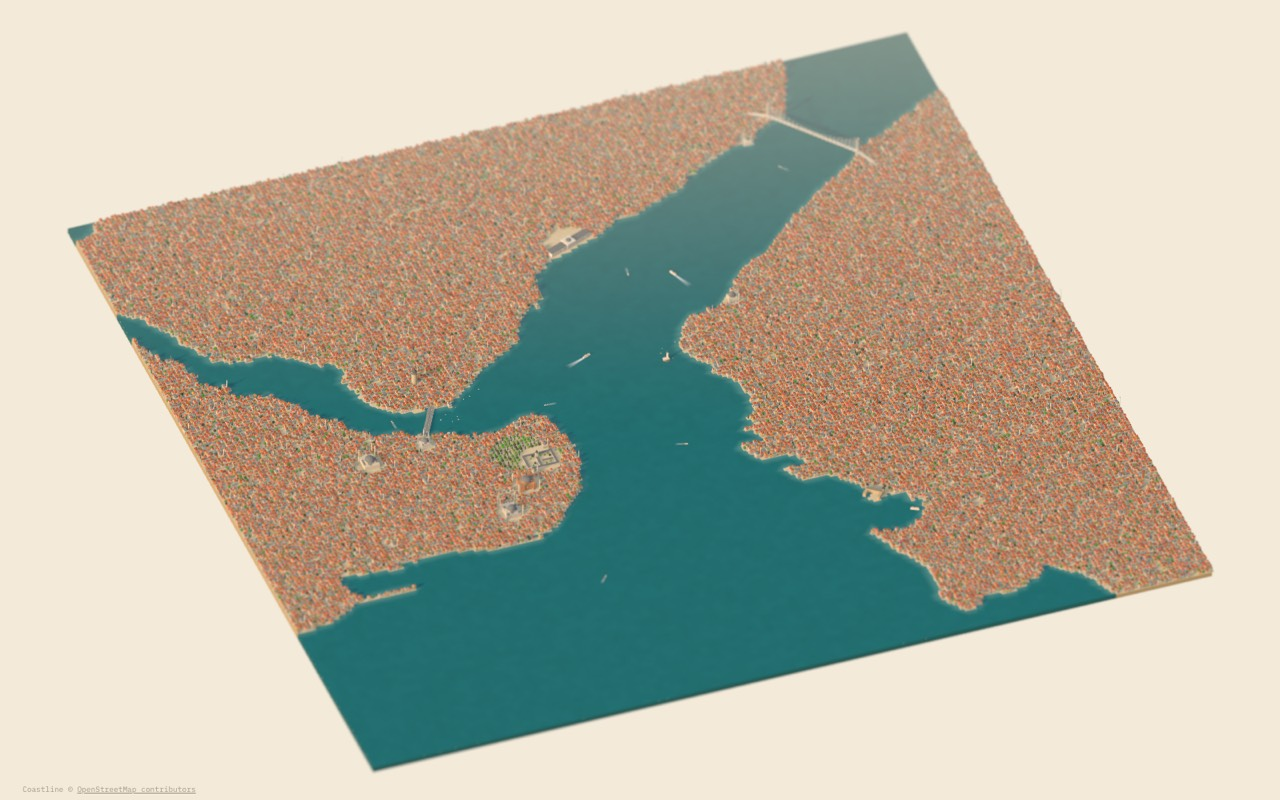
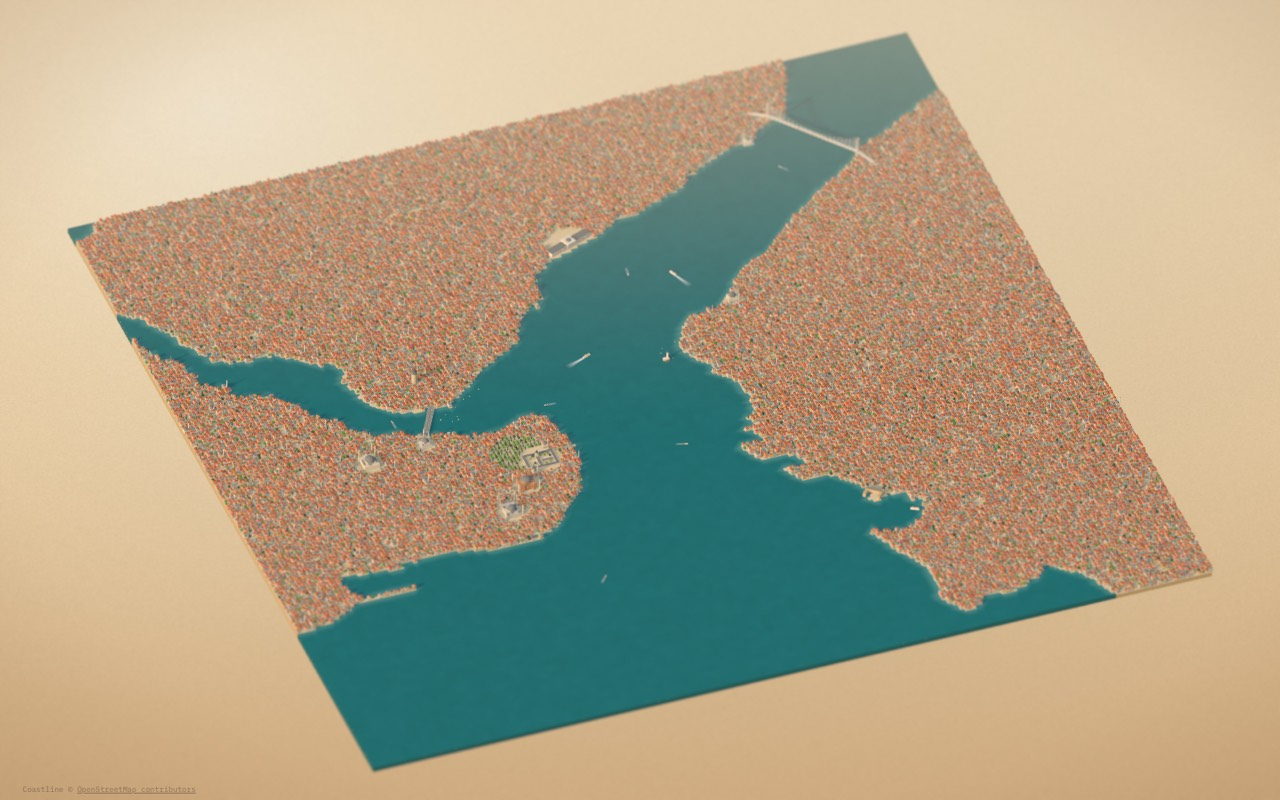
No. 004: an atmospheric backdrop, and a city that stands from the start
Warm haze lit from the sun's side with a vignette and grain, and a soft shadow under the slab. The ordinary city is built from the first moment; placing a landmark raises it into its gap.

diff --git a/works/004/scene.js b/works/004/scene.js
@@ -11,7 +11,6 @@ import { HorizontalTiltShiftShader } from 'three/addons/shaders/HorizontalTiltSh
 import { VerticalTiltShiftShader } from 'three/addons/shaders/VerticalTiltShiftShader.js';
 import { toWorld, WIDTH, HEIGHT } from './geo.js';
 import { buildLandmark, buildOutline, PALETTE } from './models.js';
-import { riseOrder, riseWindow } from './city.js';
 
 const HEADING = 20 * Math.PI / 180; // the camera looks north-northeast
 const ELEVATION = 40 * Math.PI / 180;
@@ -33,7 +32,7 @@ export async function startScene(canvas, { land, landmarks, city, reducedMotion,
   renderer.shadowMap.type = THREE.PCFSoftShadowMap;
 
   const scene = new THREE.Scene();
-  scene.background = new THREE.Color(COLORS.paper);
+  scene.background = backdrop();
   const camera = new THREE.OrthographicCamera(-1, 1, 1, -1, 1, DISTANCE * 3);
 
   // ---------- light and air ----------
@@ -41,7 +40,7 @@ export async function startScene(canvas, { land, landmarks, city, reducedMotion,
   // a haze the colour of the paper softens what is farther away, as over the Bosphorus
   scene.add(new THREE.HemisphereLight(0xe4ecf2, 0xc9a77c, 1.55));
   const sun = new THREE.DirectionalLight(0xffd8a6, 3.4);
-  scene.fog = new THREE.Fog(0xf1e3c9, DISTANCE - 600, DISTANCE + 15000);
+  scene.fog = new THREE.Fog(0xefd9b6, DISTANCE - 600, DISTANCE + 15000);
   sun.castShadow = true;
   sun.shadow.mapSize.set(small ? 1024 : 2048, small ? 1024 : 2048);
   sun.shadow.bias = -0.0004;
@@ -71,6 +70,11 @@ export async function startScene(canvas, { land, landmarks, city, reducedMotion,
   ground.frustumCulled = false;
   scene.add(ground);
   scene.add(slabEdge(land));
+  // a soft shadow on the table under the slab, cast away from the sun, so the model sits on something
+  const under = new THREE.Mesh(new THREE.PlaneGeometry(WIDTH * 1.5, HEIGHT * 1.5).rotateX(-Math.PI / 2),
+    new THREE.MeshBasicMaterial({ map: softShadow(), transparent: true, depthWrite: false, fog: false }));
+  under.position.set(-SUN.x * 420, -SLAB - 2, -SUN.z * 420);
+  scene.add(under);
 
   // ---------- landmarks, waiting as outlines ----------
   const pieces = new Map();
@@ -85,78 +89,63 @@ export async function startScene(canvas, { land, landmarks, city, reducedMotion,
   }
   const showOutline = (id, on) => { pieces.get(id).outline.visible = on; };
 
-  // ---------- the ordinary city, waiting as pale plots until its landmark is placed ----------
-  // in rising order, so each neighborhood is one run of each buffer
-  const n = landmarks.length;
-  const H = riseOrder(city.houses, n), T = riseOrder(city.trees, n), M = riseOrder(city.mosques, n);
-  const houses = H.items, trees = T.items, mosques = M.items;
-  const delaysOf = (list) => Float32Array.from(list, (x) => x.delay);
-  const houseDelays = delaysOf(houses), treeDelays = delaysOf(trees), mosqueDelays = delaysOf(mosques);
+  // ---------- the ordinary city, standing from the start: the landmarks are what is missing ----------
+  const { houses, trees, mosques } = city;
   const std = (o = {}) => new THREE.MeshStandardMaterial({ roughness: 0.85, ...o });
   const box = () => new THREE.BoxGeometry(1, 1, 1).translate(0, 0.5, 0);
-  const inst = (geo, mat, count, shadow = true) => {
+  const inst = (geo, mat, count) => {
     const mesh = new THREE.InstancedMesh(geo, mat, Math.max(count, 1));
     mesh.count = count;
-    mesh.castShadow = shadow;
+    mesh.castShadow = true;
     mesh.receiveShadow = true;
-    mesh.frustumCulled = false; // instances start at scale 0, so a bounding sphere taken early would be wrong
     scene.add(mesh);
     return mesh;
   };
   // walls darken toward the street, a baked stand-in for ambient occlusion
   const walls = inst(shadeBase(box(), 0.6), std({ vertexColors: true }), houses.length);
   const roofs = inst(new THREE.ConeGeometry(Math.SQRT1_2, 1, 4).rotateY(Math.PI / 4).translate(0, 0.5, 0), std({ flatShading: true, roughness: 0.7 }), houses.length);
-  const plots = inst(box(), std({ color: 0xe0cda8, roughness: 1 }), houses.length, false);
-  const crowns = inst(new THREE.IcosahedronGeometry(1, 0), std({ flatShading: true }), trees.length);
-  const cypresses = inst(new THREE.ConeGeometry(1, 1, 6).translate(0, 0.5, 0), std({ color: 0x3c5a34, flatShading: true }), trees.length);
+  const crownList = trees.filter((t) => t.kind !== 'cypress'), cypressList = trees.filter((t) => t.kind === 'cypress');
+  const crowns = inst(new THREE.IcosahedronGeometry(1, 0), std({ flatShading: true }), crownList.length);
+  const cypresses = inst(new THREE.ConeGeometry(1, 1, 6).translate(0, 0.5, 0), std({ color: 0x3c5a34, flatShading: true }), cypressList.length);
   const mBase = inst(shadeBase(box(), 0.66), std({ color: PALETTE.stone, vertexColors: true }), mosques.length);
   const mDome = inst(new THREE.SphereGeometry(1, 16, 7, 0, Math.PI * 2, 0, Math.PI / 2), std({ color: PALETTE.leadLight }), mosques.length);
   const mShaft = inst(new THREE.CylinderGeometry(1, 1, 1, 8).translate(0, 0.5, 0), std({ color: PALETTE.white }), mosques.length);
   const mCap = inst(new THREE.ConeGeometry(1, 1, 8).translate(0, 0.5, 0), std({ color: PALETTE.lead }), mosques.length);
-  const tint = new THREE.Color();
-  houses.forEach((h, i) => {
-    walls.setColorAt(i, tint.setHex(PALETTE.walls[h.wall]));
-    roofs.setColorAt(i, tint.setHex(PALETTE.roofs[h.roof]));
-  });
-  trees.forEach((t, i) => crowns.setColorAt(i, tint.setHex(PALETTE.trees[i % 3])));
 
-  const o3 = new THREE.Object3D();
+  const o3 = new THREE.Object3D(), tint = new THREE.Color();
   const put = (mesh, i, x, y, z, sx, sy, sz, rot = 0) => {
     o3.position.set(x, y, z);
     o3.rotation.set(0, rot, 0);
-    o3.scale.set(sx || 1e-5, sy || 1e-5, sz || 1e-5);
+    o3.scale.set(sx, sy, sz);
     o3.updateMatrix();
     mesh.setMatrixAt(i, o3.matrix);
   };
-  function setHouse(i, s) {
-    const h = houses[i], on = s > 0, spread = 0.7 + 0.3 * s, roofH = h.roof === 4 ? 1.5 : Math.min(h.w, h.d) * 0.38;
-    put(walls, i, h.x, LAND_TOP, h.z, h.w * spread * on, h.h * s, h.d * spread * on, h.rot);
-    put(roofs, i, h.x, LAND_TOP + h.h * s, h.z, h.w * spread * on, roofH * s, h.d * spread * on, h.rot);
-    put(plots, i, h.x, LAND_TOP, h.z, h.w * 0.9 * (s < 1), 1.6 * (s < 1), h.d * 0.9 * (s < 1), h.rot);
-  }
-  function setTree(i, s) {
-    const t = trees[i], c = t.kind === 'cypress';
-    put(crowns, i, t.x, LAND_TOP + t.r * 0.9 * s, t.z, t.r * s * !c, t.r * 1.1 * s * !c, t.r * s * !c);
-    put(cypresses, i, t.x, LAND_TOP, t.z, t.r * 0.42 * s * c, t.r * 3.4 * s * c, t.r * 0.42 * s * c);
-  }
-  // a neighborhood mosque: a block, a lead dome and one pencil minaret
-  function setMosque(i, s) {
-    const m = mosques[i], z = m.size, on = s > 0, h = z * 0.85 * s; // tall enough to stand clear of the roofs
-    put(mBase, i, m.x, LAND_TOP, m.z, z * on, h, z * on, m.rot);
-    put(mDome, i, m.x, LAND_TOP + h, m.z, z * 0.46 * on, z * 0.44 * s, z * 0.46 * on);
+  houses.forEach((h, i) => {
+    const roofH = h.roof === 4 ? 1.5 : Math.min(h.w, h.d) * 0.38; // the last roof colour is a flat grey roof
+    put(walls, i, h.x, LAND_TOP, h.z, h.w, h.h, h.d, h.rot);
+    put(roofs, i, h.x, LAND_TOP + h.h, h.z, h.w, roofH, h.d, h.rot);
+    walls.setColorAt(i, tint.setHex(PALETTE.walls[h.wall]));
+    roofs.setColorAt(i, tint.setHex(PALETTE.roofs[h.roof]));
+  });
+  crownList.forEach((t, i) => {
+    put(crowns, i, t.x, LAND_TOP + t.r * 0.9, t.z, t.r, t.r * 1.1, t.r);
+    crowns.setColorAt(i, tint.setHex(PALETTE.trees[i % 3]));
+  });
+  cypressList.forEach((t, i) => put(cypresses, i, t.x, LAND_TOP, t.z, t.r * 0.42, t.r * 3.4, t.r * 0.42));
+  // a neighborhood mosque: a block tall enough to stand clear of the roofs, a lead dome and one pencil minaret
+  mosques.forEach((m, i) => {
+    const z = m.size, h = z * 0.85;
+    put(mBase, i, m.x, LAND_TOP, m.z, z, h, z, m.rot);
+    put(mDome, i, m.x, LAND_TOP + h, m.z, z * 0.46, z * 0.44, z * 0.46);
     const mx = m.x + Math.cos(m.rot) * z * 0.66, mz = m.z - Math.sin(m.rot) * z * 0.66;
-    put(mShaft, i, mx, LAND_TOP, mz, 2.8 * on, z * 2.3 * s, 2.8 * on);
-    put(mCap, i, mx, LAND_TOP + z * 2.3 * s, mz, 3.3 * on, z * 0.4 * s, 3.3 * on);
-  }
-  houses.forEach((_, i) => setHouse(i, 0));
-  trees.forEach((_, i) => setTree(i, 0));
-  mosques.forEach((_, i) => setMosque(i, 0));
+    put(mShaft, i, mx, LAND_TOP, mz, 2.8, z * 2.3, 2.8);
+    put(mCap, i, mx, LAND_TOP + z * 2.3, mz, 3.3, z * 0.4, 3.3);
+  });
 
-  // ---------- placing: the landmark rises, then its neighborhood around it ----------
-  const RISE = 700, GROW = 400;
+  // ---------- placing: the landmark rises into its gap ----------
+  const RISE = 900;
   const rising = [];
   const easeOutBack = (k) => 1 + 2.2 * (k - 1) ** 3 + 1.2 * (k - 1) ** 2;
-  const easeOut = (k) => 1 - (1 - k) ** 3;
 
   function placeLandmark(id, { animate = true } = {}) {
     const p = pieces.get(id);
@@ -164,46 +153,16 @@ export async function startScene(canvas, { land, landmarks, city, reducedMotion,
     p.placed = true;
     p.outline.visible = false;
     scene.add(p.model);
-    const k = landmarks.indexOf(p.lm);
-    const runs = [
-      { from: H.start[k], to: H.start[k + 1], lo: H.start[k], list: houses, delays: houseDelays, set: setHouse, meshes: [walls, roofs, plots] },
-      { from: T.start[k], to: T.start[k + 1], lo: T.start[k], list: trees, delays: treeDelays, set: setTree, meshes: [crowns, cypresses] },
-      { from: M.start[k], to: M.start[k + 1], lo: M.start[k], list: mosques, delays: mosqueDelays, set: setMosque, meshes: [mBase, mDome, mShaft, mCap] },
-    ];
-    if (!animate || reducedMotion) {
-      for (const run of runs) {
-        for (let i = run.from; i < run.to; i++) run.set(i, 1);
-        upload(run.meshes, run.from, run.to);
-      }
-      return Promise.resolve();
-    }
+    if (!animate || reducedMotion) return Promise.resolve();
     p.model.position.y = p.y - p.model.userData.height - 2;
-    const last = Math.max(0, ...runs.filter((run) => run.to > run.from).map((run) => run.delays[run.to - 1]));
-    return new Promise((resolve) => rising.push({ p, runs, t0: performance.now(), end: RISE + last * 1000 + GROW, resolve }));
+    return new Promise((resolve) => rising.push({ p, t0: performance.now(), resolve }));
   }
 
-  function upload(meshes, from, to) {
-    if (to <= from) return;
-    for (const mesh of meshes) {
-      mesh.instanceMatrix.addUpdateRange(from * 16, (to - from) * 16);
-      mesh.instanceMatrix.needsUpdate = true;
-    }
-  }
-
-  // each frame touches only what is growing in each rising neighborhood, plus what has just finished
   function stepRising(now) {
     for (let r = rising.length - 1; r >= 0; r--) {
-      const a = rising[r], t = now - a.t0;
-      const k = Math.min(1, t / RISE);
+      const a = rising[r], k = Math.min(1, (now - a.t0) / RISE);
       a.p.model.position.y = a.p.y - (a.p.model.userData.height + 2) * (1 - easeOutBack(k));
-      for (const run of a.runs) {
-        const { hi, next } = riseWindow(run.delays.subarray(run.from, run.to), run.lo - run.from, t, RISE, GROW);
-        const to = run.from + hi;
-        for (let i = run.lo; i < to; i++) run.set(i, easeOut(Math.min(1, Math.max(0, (t - RISE - run.list[i].delay * 1000) / GROW))));
-        upload(run.meshes, run.lo, to);
-        run.lo = run.from + next;
-      }
-      if (t >= a.end) { a.p.model.position.y = a.p.y; rising.splice(r, 1); a.resolve(); }
+      if (k === 1) { rising.splice(r, 1); a.resolve(); }
     }
   }
 
@@ -514,4 +473,48 @@ float foam = smoothstep(0.84, 0.95, near + 0.05 * sin(uTime * 1.2 + n * 5.0));
 diffuseColor.rgb = mix(diffuseColor.rgb, vec3(0.93, 0.92, 0.86), foam * 0.8);`);
   };
   return mat;
+}
+
+// The backdrop: warm haze lit from the sun's side, deepening to dusty sand at the corners, with a fine grain,
+// so the model floats in late-afternoon air rather than on a flat sheet.
+function backdrop() {
+  const c = document.createElement('canvas');
+  c.width = c.height = 1024;
+  const g = c.getContext('2d');
+  const sky = g.createLinearGradient(0, 0, 0, 1024);
+  sky.addColorStop(0, '#f7e6c6');
+  sky.addColorStop(0.55, '#efd6ae');
+  sky.addColorStop(1, '#ddbb8f');
+  g.fillStyle = sky;
+  g.fillRect(0, 0, 1024, 1024);
+  const glow = g.createRadialGradient(170, 140, 0, 170, 140, 760);
+  glow.addColorStop(0, 'rgba(255, 246, 225, 0.95)');
+  glow.addColorStop(0.45, 'rgba(255, 236, 200, 0.35)');
+  glow.addColorStop(1, 'rgba(255, 236, 200, 0)');
+  g.fillStyle = glow;
+  g.fillRect(0, 0, 1024, 1024);
+  const vignette = g.createRadialGradient(512, 470, 330, 512, 512, 760);
+  vignette.addColorStop(0, 'rgba(120, 78, 40, 0)');
+  vignette.addColorStop(1, 'rgba(120, 78, 40, 0.28)');
+  g.fillStyle = vignette;
+  g.fillRect(0, 0, 1024, 1024);
+  const grain = g.getImageData(0, 0, 1024, 1024), d = grain.data;
+  for (let i = 0; i < d.length; i += 4) { const n = (Math.random() - 0.5) * 9; d[i] += n; d[i + 1] += n; d[i + 2] += n; }
+  g.putImageData(grain, 0, 0);
+  const tex = new THREE.CanvasTexture(c);
+  tex.colorSpace = THREE.SRGBColorSpace;
+  return tex;
+}
+
+function softShadow() {
+  const c = document.createElement('canvas');
+  c.width = c.height = 256;
+  const g = c.getContext('2d');
+  const r = g.createRadialGradient(128, 128, 40, 128, 128, 128);
+  r.addColorStop(0, 'rgba(90, 58, 30, 0.42)');
+  r.addColorStop(0.6, 'rgba(90, 58, 30, 0.2)');
+  r.addColorStop(1, 'rgba(90, 58, 30, 0)');
+  g.fillStyle = r;
+  g.fillRect(0, 0, 256, 256);
+  return new THREE.CanvasTexture(c);
 }

diff --git a/works/004/city.js b/works/004/city.js
@@ -1,5 +1,6 @@
-// The ordinary city. Every land cell belongs to the nearest landmark on its own shore and rises when that landmark
-// is placed, so placing every landmark that owns land builds all of it. Seeded, so every visit grows the same city.
+// The ordinary city, standing from the start around the gaps where the landmarks go. Every land cell belongs to the
+// nearest landmark on its own shore, its neighborhood, so each one gets its own small mosques. Seeded, so every visit
+// shows the same city.
 
 import { toWorld } from './geo.js';
 
@@ -65,41 +66,20 @@ export function makeCity(land, owners, landmarks, seed = 4) {
     const storeys = 3 + Math.floor(rnd() * 4), roofPick = rnd(), wall = Math.floor(rnd() * 6);
     const rot = (rnd() - 0.5) * 0.36, special = rnd();
     if (keepClear.some((p) => near(c, p))) continue;
-    const delay = Math.min(2, Math.hypot(c.x - at[owner].x, c.z - at[owner].z) / 1500);
     // a flat grey roof on about one building in eight, terracotta on the rest
     const roof = roofPick < 0.12 ? 4 : Math.floor(((roofPick - 0.12) / 0.88) * 4);
     if (near(c, park) || (kind >= HOUSE_CHANCE && kind < HOUSE_CHANCE + TREE_CHANCE)) {
-      trees.push({ x: c.x + jx, z: c.z + jz, r: land.cell * (0.3 + 0.15 * (w / land.cell)), owner, delay, kind: special < 0.35 ? 'cypress' : 'round' });
+      trees.push({ x: c.x + jx, z: c.z + jz, r: land.cell * (0.3 + 0.15 * (w / land.cell)), owner, kind: special < 0.35 ? 'cypress' : 'round' });
     } else if (kind < HOUSE_CHANCE) {
       if (special < MOSQUE_CHANCE && roomForMosque(c.x, c.z)) {
-        const m = { x: c.x, z: c.z, owner, delay, size: 38 + 12 * ((special * 97) % 1), rot };
+        const m = { x: c.x, z: c.z, owner, size: 38 + 12 * ((special * 97) % 1), rot };
         mosques.push(m);
         const k = key(c.x, c.z);
         spaced.set(k, [...(spaced.get(k) || []), m]);
       } else {
-        houses.push({ x: c.x + jx, z: c.z + jz, w, d, h: storeys * STOREY * HEIGHT_SCALE, roof, wall, rot, owner, delay });
+        houses.push({ x: c.x + jx, z: c.z + jz, w, d, h: storeys * STOREY * HEIGHT_SCALE, roof, wall, rot, owner });
       }
     }
   }
   return { houses, trees, mosques };
-}
-
-// Instances in the order they will rise: grouped by owner, earliest first, so each neighborhood is one run of the
-// instance buffers and a rise touches, and uploads, only its own run. Owner k runs from start[k] to start[k + 1].
-export function riseOrder(items, ownerCount) {
-  const sorted = [...items].sort((a, b) => a.owner - b.owner || a.delay - b.delay);
-  const start = new Int32Array(ownerCount + 1);
-  for (const it of sorted) start[it.owner + 1]++;
-  for (let k = 0; k < ownerCount; k++) start[k + 1] += start[k];
-  return { items: sorted, start };
-}
-
-// Within one run (delays sorted, in seconds), t ms after placing: everything before lo is already grown,
-// items up to hi have started growing, and items before next have finished.
-export function riseWindow(delays, lo, t, rise, grow) {
-  let hi = lo;
-  while (hi < delays.length && t >= rise + delays[hi] * 1000) hi++;
-  let next = lo;
-  while (next < hi && t >= rise + delays[next] * 1000 + grow) next++;
-  return { hi, next };
 }

diff --git a/works/004/_test/city.test.js b/works/004/_test/city.test.js
@@ -2,7 +2,7 @@ import { test } from 'node:test';
 import assert from 'node:assert/strict';
 import { FRAME, MX, MY, HEIGHT, toWorld, parseLand } from '../geo.js';
 import { LANDMARKS } from '../landmarks.js';
-import { assignOwners, makeCity, CLEAR, riseOrder, riseWindow } from '../city.js';
+import { assignOwners, makeCity, CLEAR } from '../city.js';
 import { ROUTES, BOAT_LOOPS } from '../routes.js';
 import { realLand } from './helpers.js';
 
@@ -24,13 +24,12 @@ test('owners: nearest landmark on the same shore', () => {
   assert.equal(o[L.index(colX(9), rowZ(2))], -1); // water
 });
 
-test('city is deterministic, staggered and clear around landmarks', () => {
+test('city is deterministic and clear around landmarks', () => {
   const o = assignOwners(L, ls);
   const a = makeCity(L, o, ls, 4), b = makeCity(L, o, ls, 4);
   assert.deepEqual(a, b);
   assert.ok(a.houses.length > 0);
   for (const h of [...a.houses, ...a.trees]) {
-    assert.ok(h.delay >= 0 && h.delay <= 2);
     assert.equal(o[L.index(h.x, h.z)], h.owner);
     for (const m of ls.filter((m) => m.ownsLand)) assert.ok(dist(h, m) >= (m.clear ?? CLEAR));
   }
@@ -91,22 +90,6 @@ test('small boats loop on open water', () => {
   }
 });
 
-test('riseOrder: each neighborhood is one run, earliest first', () => {
-  const items = [{ owner: 2, delay: 0.5 }, { owner: 0, delay: 1 }, { owner: 2, delay: 0.1 }, { owner: 0, delay: 0.2 }, { owner: 1, delay: 0 }];
-  const { items: sorted, start } = riseOrder(items, 4);
-  assert.deepEqual(sorted.map((i) => [i.owner, i.delay]), [[0, 0.2], [0, 1], [1, 0], [2, 0.1], [2, 0.5]]);
-  assert.deepEqual([...start], [0, 2, 3, 5, 5]); // owner k runs from start[k] to start[k + 1]; owner 3 has none
-});
-
-test('riseWindow: only what is growing, plus what just finished', () => {
-  const delays = [0, 0, 0.5, 1, 2]; // seconds, sorted
-  // rise 700 ms, grow 400 ms: an item grows from 700 + delay to 1100 + delay
-  assert.deepEqual(riseWindow(delays, 0, 600, 700, 400), { hi: 0, next: 0 }); // nothing started
-  assert.deepEqual(riseWindow(delays, 0, 900, 700, 400), { hi: 2, next: 0 }); // the first two growing
-  assert.deepEqual(riseWindow(delays, 0, 1250, 700, 400), { hi: 3, next: 2 }); // first two done, third growing
-  assert.deepEqual(riseWindow(delays, 2, 5000, 700, 400), { hi: 5, next: 5 }); // all done
-});
-
 test('real map: small mosques scattered through every neighborhood, never crowded', () => {
   const land = realLand(), o = assignOwners(land, LANDMARKS), city = makeCity(land, o, LANDMARKS);
   const ms = city.mosques;
@@ -114,7 +97,6 @@ test('real map: small mosques scattered through every neighborhood, never crowde
   for (let i = 0; i < ms.length; i++) {
     const m = ms[i];
     assert.equal(o[land.index(m.x, m.z)], m.owner);
-    assert.ok(m.delay >= 0 && m.delay <= 2);
     for (let j = i + 1; j < ms.length; j++) assert.ok(Math.hypot(m.x - ms[j].x, m.z - ms[j].z) >= 350, 'mosques too close');
   }
   for (const lm of LANDMARKS.filter((l) => l.ownsLand)) assert.ok(ms.some((m) => LANDMARKS[m.owner] === lm), lm.id);

diff --git a/works/004/index.html b/works/004/index.html
@@ -134,7 +134,7 @@
     --pad: clamp(14px, 2.2vw, 28px);
     color-scheme: light;
   }
-  html, body { margin: 0; height: 100%; background: var(--paper); color: var(--ink); }
+  html, body { margin: 0; height: 100%; background: radial-gradient(120% 90% at 18% 12%, #fbf0dc 0%, #efd6ae 55%, #d9b688 100%); color: var(--ink); }
   body { font: 400 13px/1.5 var(--mono); overflow: hidden; -webkit-font-smoothing: antialiased; }
   button { font: inherit; color: inherit; }
   .sr-only { position: absolute; width: 1px; height: 1px; overflow: hidden; clip-path: inset(50%); white-space: nowrap; }
